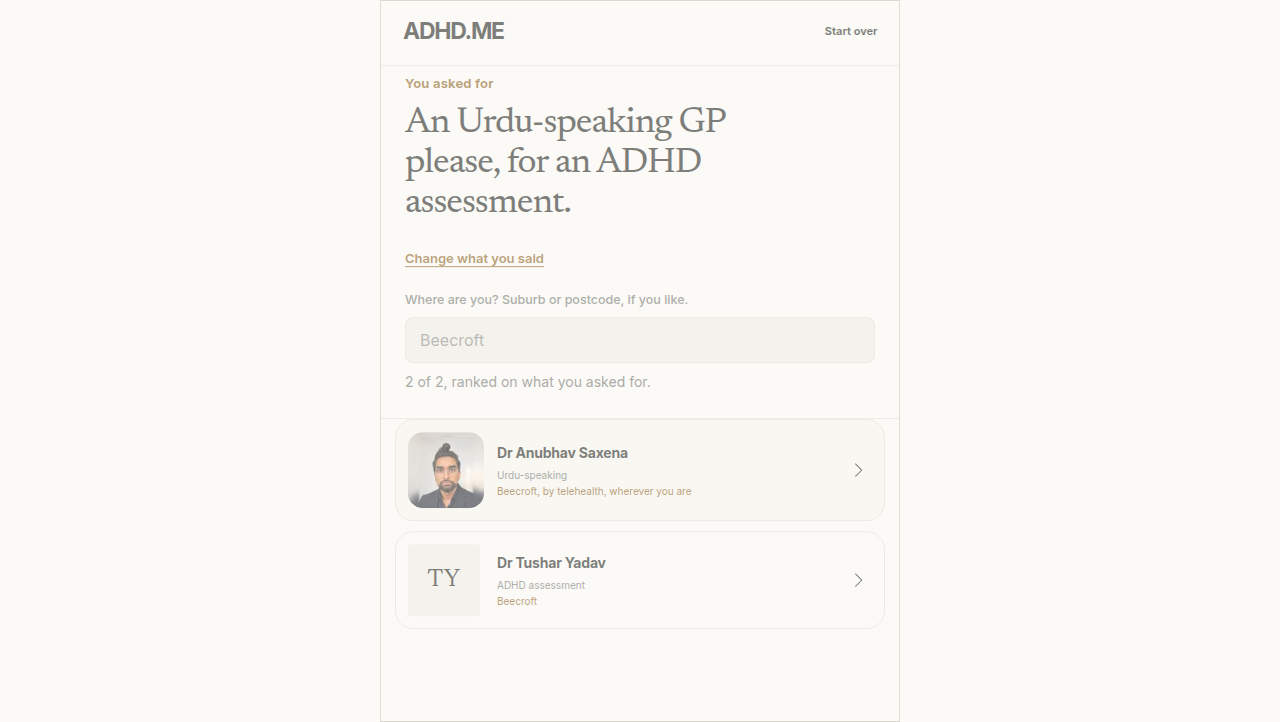
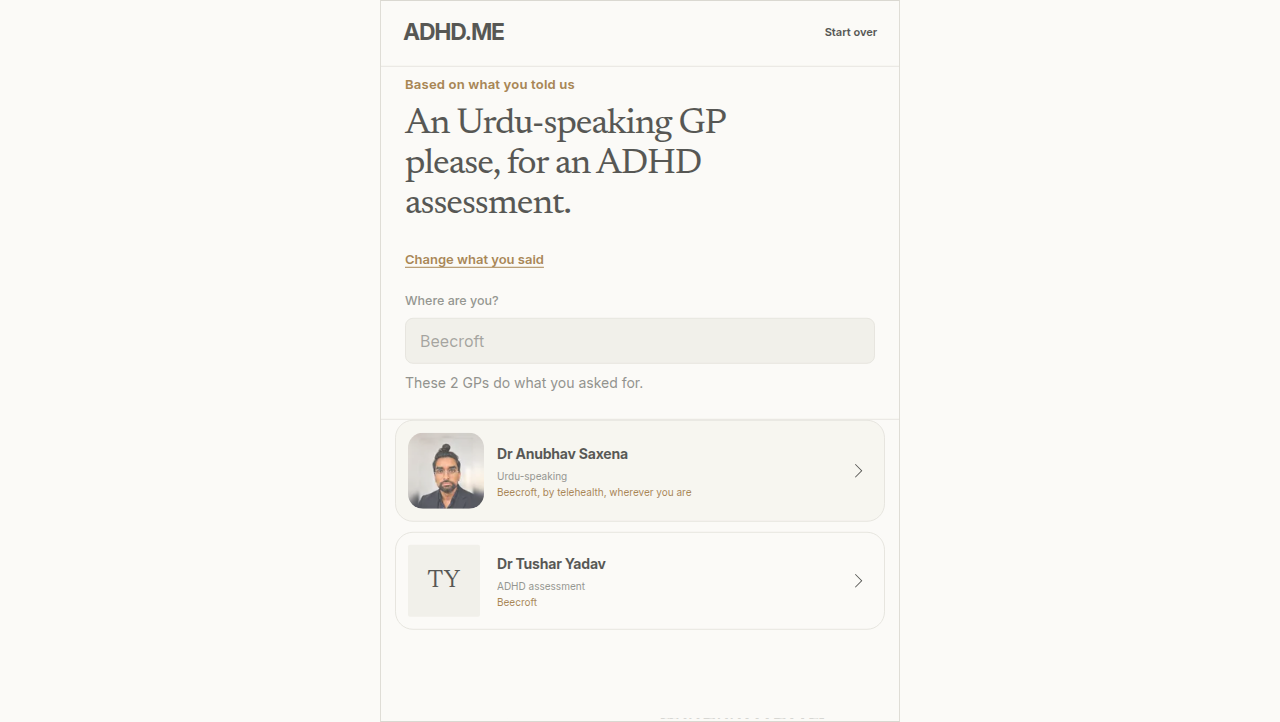
Results screen: reframed to 'based on what you told us', and decluttered
The founder's ask, landed inside the compliance line: the eyebrow now
reads 'Based on what you told us', and the count line and earned-order
claim merge into one sentence - 'These N GPs do what you asked for.'
The word 'specialise' from the ask cannot ship on a patient surface:
AHPRA protects specialist titles and tree law 6 bans the word beside a
niche scope, so the claim is 'do what you asked for' - same
confidence, no protected title.

Decluttered: the suburb label drops its trailing clause ('Where are
you?'), the geo line drops the redundant count ('Nearest to Beecroft
first.'), and the honesty gates hold unchanged - the claim renders
only when the order is earned; tied/unmatched keep the bare count
with the banner owning the explanation.

qa/matching-o10/10-reframed-results.png is the evidence.

Vault log skipped: Stefan-Brain unreachable from this session.

Claude-Session: https://claude.ai/code/session_01TVamNq6Z6TcjKFmyw63W9E

diff --git a/app/care-finder.tsx b/app/care-finder.tsx
@@ -683,14 +683,14 @@ export function CareFinder() {
             </header>
 
             <div className="results-head">
-              <p className="eyebrow">You asked for</p>
+              <p className="eyebrow">Based on what you told us</p>
               <h1>{requestHeadline}</h1>
               <button className="refine-compact" type="button" onClick={() => { setDraft(request); setStage("type"); }}>
                 <span>Change what you said</span>
               </button>
 
               <div className="place-field">
-                <label htmlFor="place">Where are you? Suburb or postcode, if you like.</label>
+                <label htmlFor="place">Where are you?</label>
                 <input
                   id="place"
                   name="place"
@@ -716,12 +716,14 @@ export function CareFinder() {
                       the quality banner owns the explanation. */}
                   {place.trim() === ""
                     ? quality === "informed"
-                      ? `${shown.length} of ${matches.length}, ranked on what you asked for.`
+                      ? shown.length === 1
+                        ? "This GP does what you asked for."
+                        : `These ${shown.length} GPs do what you asked for.`
                       : `${shown.length} of ${matches.length}.`
                     : origin
-                      ? `${shown.length} of ${matches.length}, nearest to ${origin.suburb} first.`
+                      ? `Nearest to ${origin.suburb} first.`
                       : quality === "informed"
-                        ? "We do not cover that one yet, so these are ranked on what you asked for."
+                        ? "We do not cover that one yet, so these are ordered on what you asked for."
                         : "We do not cover that one yet."}
                 </p>
 
